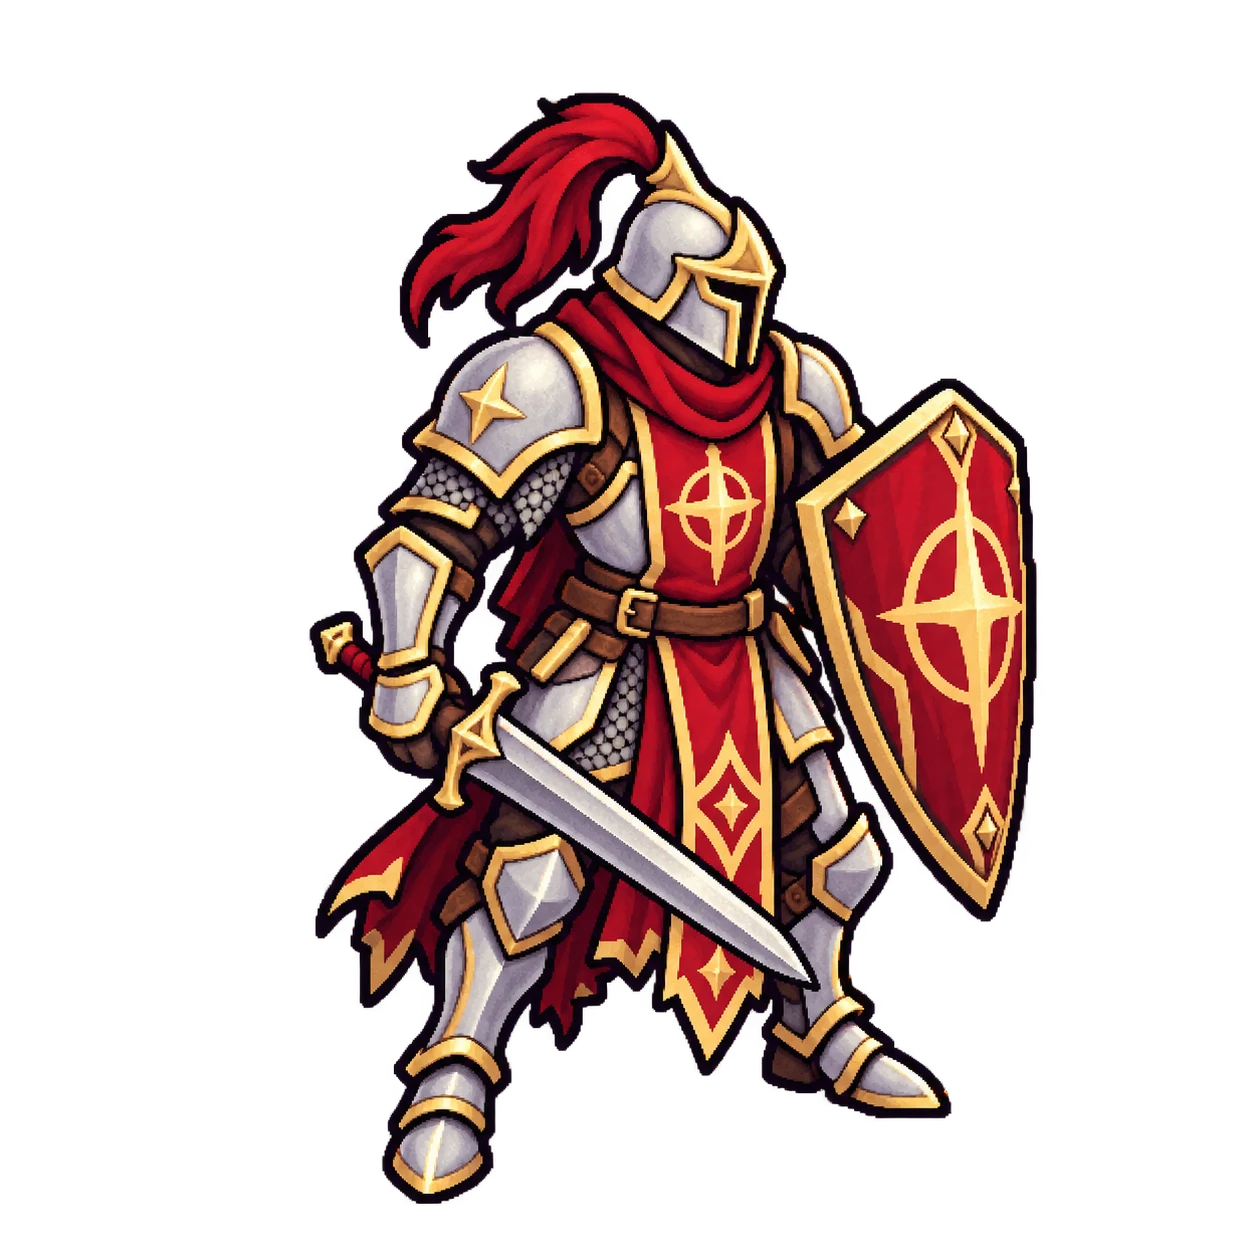
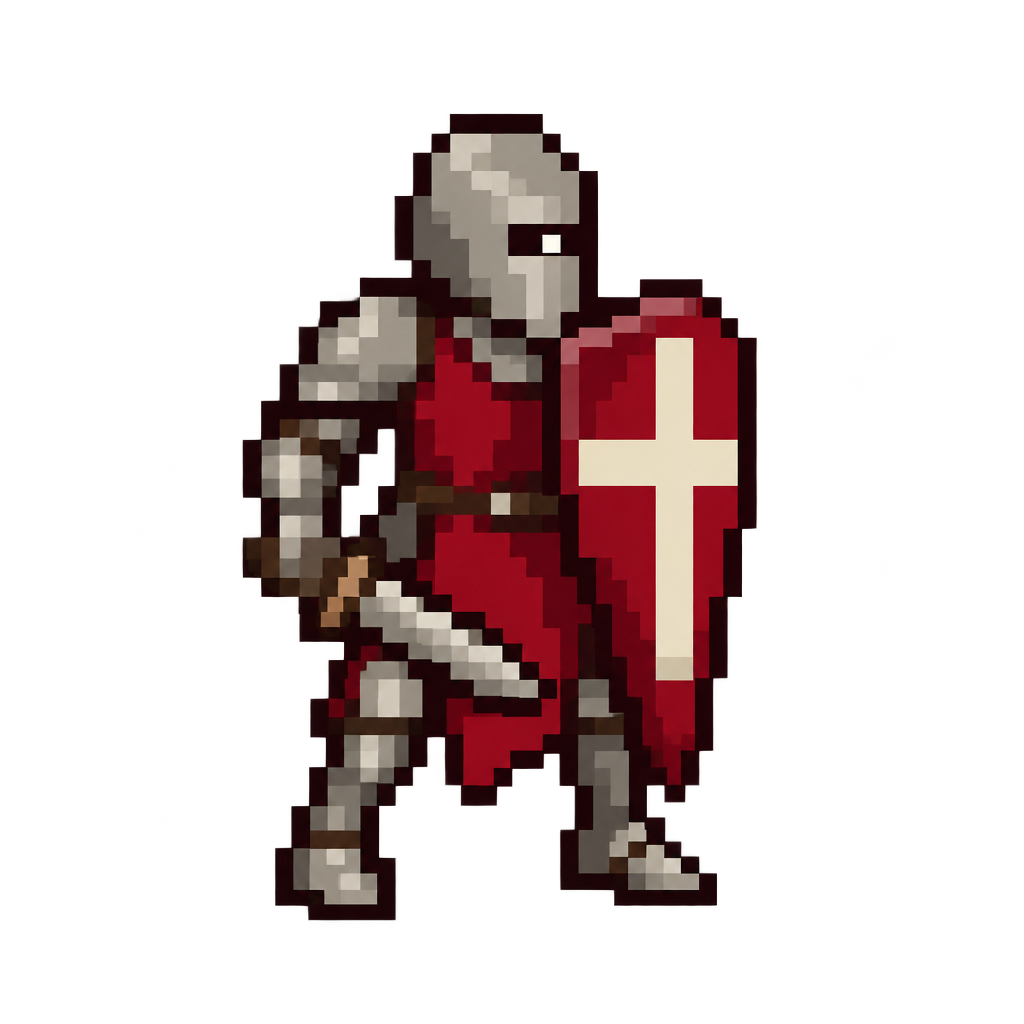
Crimson Footman, the first sprite generated through the API
gpt-image-2.5-flare (medium) with the approved sprites as reference,
converted with --inside-outline, no hand fixes. Cost logged in the ledger.

Claude-Session: https://claude.ai/code/session_01FLPv2RqRe5qVsRWxUhur7z

diff --git a/docs/art/ART_BIBLE.md b/docs/art/ART_BIBLE.md
@@ -481,7 +481,7 @@ Crimson, ivory and warm steel; gold for elites, the Sanctum kinds and the Reckon
 | File | Subject | Art px | Status |
 |---|---|---|---|
 | `recruit.png` | Covenant Recruit (Anchor 3): kettle helm, crimson tabard over ivory, a tall spear. Signature: the spear | 50 (body 40, spear above) | done |
-| `footman.png` | Crimson Footman: heavy warm-steel armour, a crimson kite shield, a sword. Signature: the kite shield | 48 | to redo |
+| `footman.png` | Crimson Footman: heavy warm-steel armour, a crimson kite shield, a sword. Signature: the kite shield | 48 | done |
 | `archer.png` | Zealous Archer: ivory-and-crimson archer with a tall longbow. Signature: the longbow | 40 | to redo |
 | `chaplain.png` | Covenant Chaplain: ivory robes, a gold censer, a faint holy glint. Signature: the censer | 42 | to redo |
 | `purifier.png` | Purifier: a warm-steel mask, a flaming torch-censer (flame). Signature: the flame | 44 | to redo |
